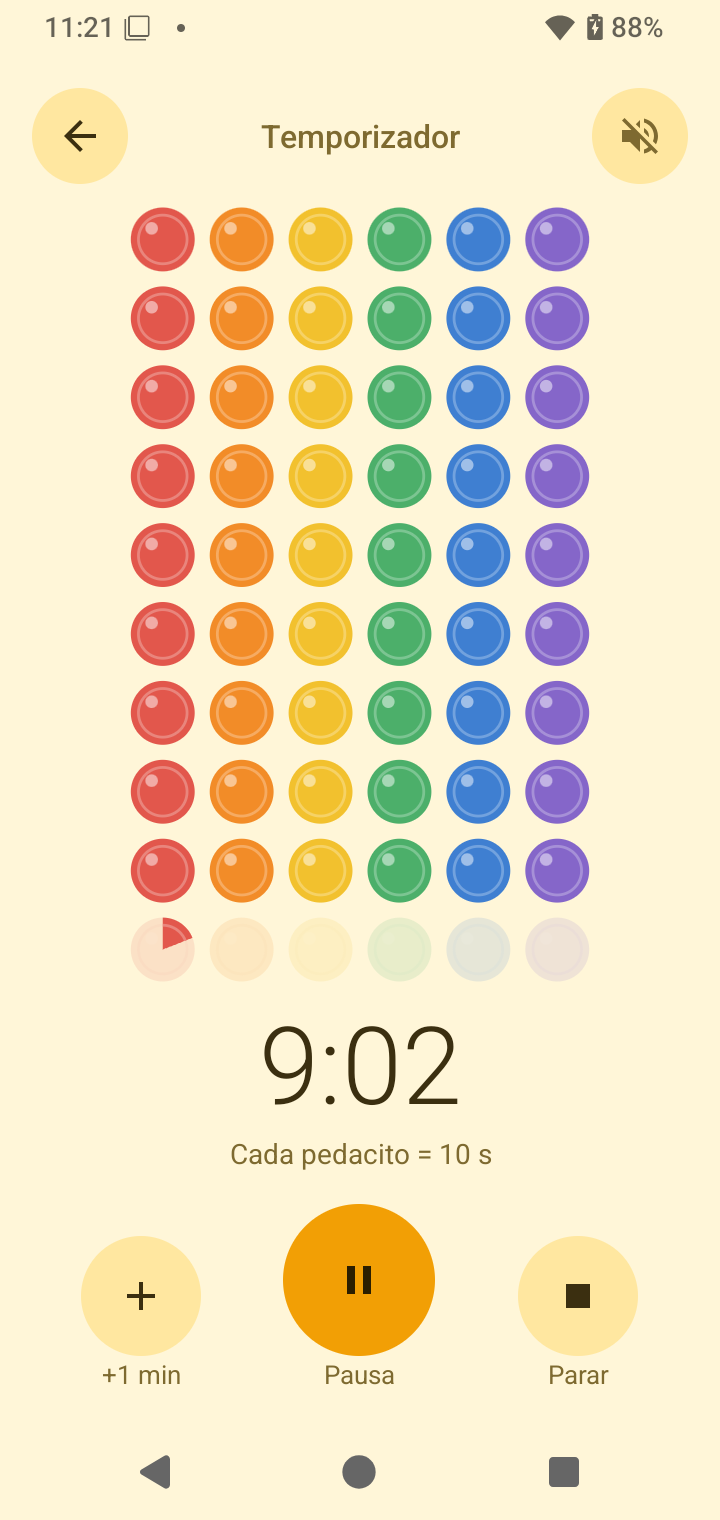
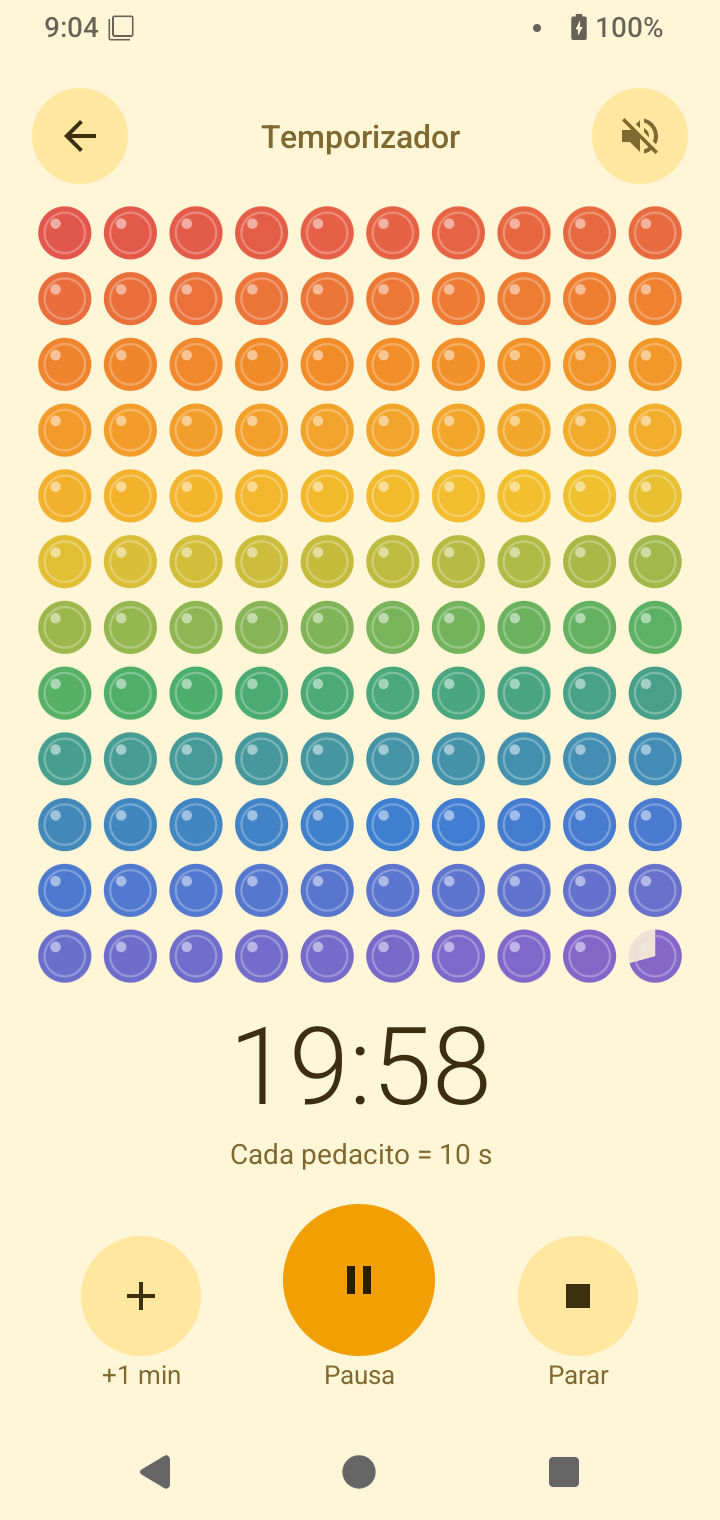
Ratito 1.7.0

diff --git a/README.md b/README.md
@@ -2,7 +2,7 @@
 
 <h1 align="center">Ratito</h1>
 
-<h2 align="center"><a href="https://github.com/matcarfer/Ratito/releases/download/v1.6.0/Ratito-1.6.0.apk">⬇ Descargar APK</a></h2>
+<h2 align="center"><a href="https://github.com/matcarfer/Ratito/releases/download/v1.7.0/Ratito-1.7.0.apk">⬇ Descargar APK</a></h2>
 
 <p align="center">
   <b>Español</b> · <a href="README.en.md">English</a><br><br>
@@ -12,9 +12,10 @@ Sin internet, sin publicidad y sin cuentas.<br>
 </p>
 
 <p align="center">
-  <img src="docs/1-inicio.png" width="30%" alt="Ratito">
-  <img src="docs/2-temporizador.png" width="30%" alt="Ratito">
-  <img src="docs/3-formas.png" width="30%" alt="Ratito">
+  <img src="docs/1-inicio.png" width="23%" alt="Ratito">
+  <img src="docs/2-temporizador.png" width="23%" alt="Ratito">
+  <img src="docs/3-rutina.png" width="23%" alt="Ratito">
+  <img src="docs/4-formas.png" width="23%" alt="Ratito">
 </p>
 
 **Cómo se usa:** tocá un tiempo, o entrá a Rutinas. Ves cuánto falta con dibujos, y podés elegir formas, temas y sonidos.
@@ -26,4 +27,4 @@ Sin internet, sin publicidad y sin cuentas.<br>
 
 ---
 
-<sub>Gratis, de código cerrado. No redistribuir: compartí este link. Sin garantía. <a href="LICENSE">Licencia</a> · <a href="PRIVACY.es.md">Privacidad</a> · <a href="https://www.virustotal.com/gui/file/1d64dd1ddd050a5a4f8a0f831ccd9e4291d1bc28c514698c4a43830974f5ab49">VirusTotal</a></sub>
+<sub>Gratis, de código cerrado. No redistribuir: compartí este link. Sin garantía. <a href="LICENSE">Licencia</a> · <a href="PRIVACY.es.md">Privacidad</a> · <a href="https://www.virustotal.com/gui/file/9c6f66fce892fce6090a643424170853b34f206f6ec43e6807e935df3e0a2fce">VirusTotal</a></sub>

diff --git a/README.en.md b/README.en.md
@@ -2,7 +2,7 @@
 
 <h1 align="center">Ratito</h1>
 
-<h2 align="center"><a href="https://github.com/matcarfer/Ratito/releases/download/v1.6.0/Ratito-1.6.0.apk">⬇ Download APK</a></h2>
+<h2 align="center"><a href="https://github.com/matcarfer/Ratito/releases/download/v1.7.0/Ratito-1.7.0.apk">⬇ Download APK</a></h2>
 
 <p align="center">
   <a href="README.md">Español</a> · <b>English</b><br><br>
@@ -12,9 +12,10 @@ No internet, no ads and no accounts.<br>
 </p>
 
 <p align="center">
-  <img src="docs/1-inicio.png" width="30%" alt="Ratito">
-  <img src="docs/2-temporizador.png" width="30%" alt="Ratito">
-  <img src="docs/3-formas.png" width="30%" alt="Ratito">
+  <img src="docs/1-inicio.png" width="23%" alt="Ratito">
+  <img src="docs/2-temporizador.png" width="23%" alt="Ratito">
+  <img src="docs/3-rutina.png" width="23%" alt="Ratito">
+  <img src="docs/4-formas.png" width="23%" alt="Ratito">
 </p>
 
 **How to use:** tap a time, or open Routines. You see the time left as drawings, and you can choose shapes, themes and sounds.
@@ -26,4 +27,4 @@ No internet, no ads and no accounts.<br>
 
 ---
 
-<sub>Free, closed source. Do not redistribute: share this link. No warranty. <a href="LICENSE.en">License</a> · <a href="PRIVACY.md">Privacy</a> · <a href="https://www.virustotal.com/gui/file/1d64dd1ddd050a5a4f8a0f831ccd9e4291d1bc28c514698c4a43830974f5ab49">VirusTotal</a></sub>
+<sub>Free, closed source. Do not redistribute: share this link. No warranty. <a href="LICENSE.en">License</a> · <a href="PRIVACY.md">Privacy</a> · <a href="https://www.virustotal.com/gui/file/9c6f66fce892fce6090a643424170853b34f206f6ec43e6807e935df3e0a2fce">VirusTotal</a></sub>

diff --git a/PRIVACY.es.md b/PRIVACY.es.md
@@ -6,7 +6,7 @@ Ratito **no junta, no envía y no comparte ningún dato**.
 
 - **Sin permiso de internet**, sin publicidad, sin estadísticas, sin cuentas, sin librerías de terceros.
 - **Qué guarda, solo en el celular:** tus ajustes y tus rutinas, en la carpeta privada de la app.
-  *Ajustes → Borrar todo* o desinstalar borra todo. Una versión nueva también empieza de cero.
+  *Ajustes → Borrar todo* o desinstalar borra todo. Las actualizaciones conservan todo.
 - **Sin fotos ni archivos** (desde 1.3.0): los pasos usan emojis; no se pide permiso de almacenamiento.
 - **Permisos:** vibración; servicio en primer plano + notificación + mantener activo (para seguir
   contando con la pantalla apagada); notificación a pantalla completa (para mostrar "se terminó" sobre

diff --git a/PRIVACY.md b/PRIVACY.md
@@ -6,7 +6,7 @@ Ratito **does not collect, send or share any data**.
 
 - **No internet permission**, no ads, no analytics, no accounts, no third-party libraries.
 - **What it stores, only on the phone:** your settings and your routines, in the app's private folder.
-  *Settings → Erase everything* or uninstalling deletes it all. A new version also starts from scratch.
+  *Settings → Erase everything* or uninstalling deletes it all. Updates keep it.
 - **No photos or files** (since 1.3.0): steps use emojis; no storage permission is requested.
 - **Permissions:** vibration; foreground service + notification + wake lock (to keep counting with the
   screen off); full-screen notification (to show "time is up" over the lock screen).
